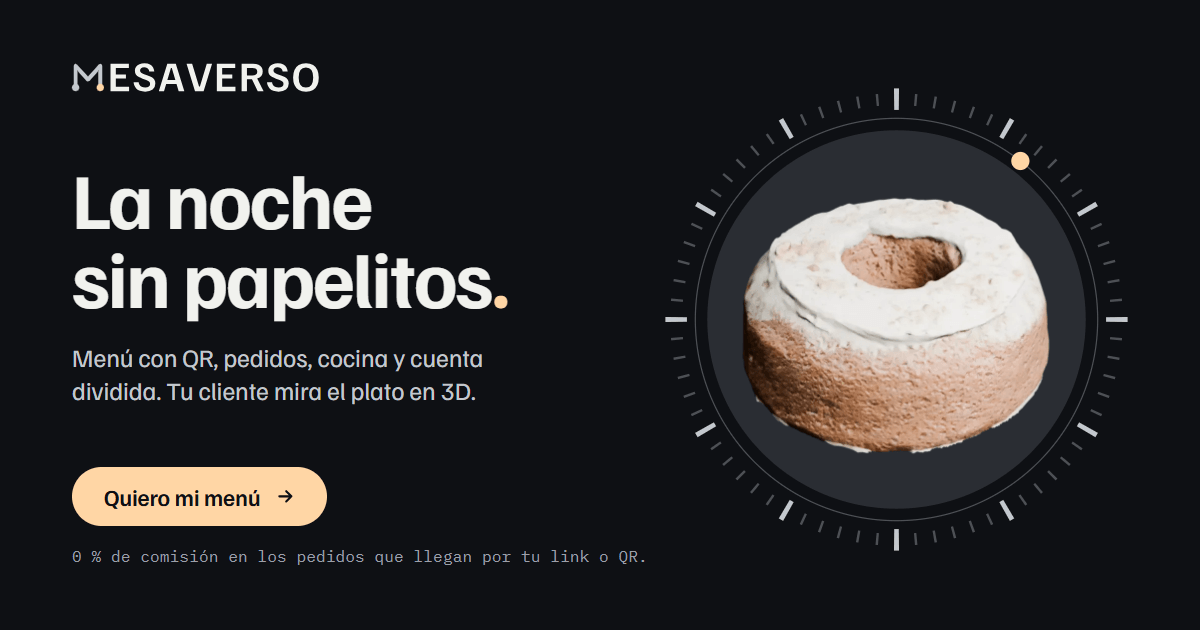
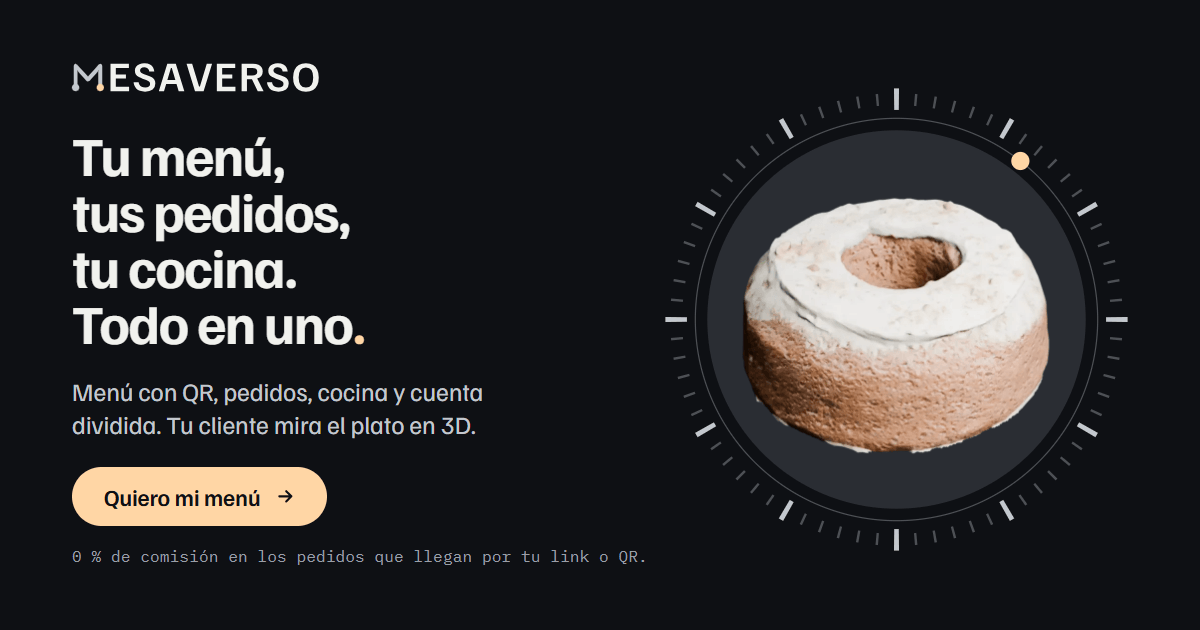
Landing v2: new headline, five SEO product pages built from JSON, footer links, SEO tests, new OG image

Changed region(s): [[0.0617, 0.2111, 0.4317, 0.6937]]

diff --git a/mesaverso-landing/src-v2/index.html b/mesaverso-landing/src-v2/index.html
@@ -39,7 +39,7 @@
 <section class="hero" id="top" aria-labelledby="h1"><div class="wrap hero__in">
   <div class="hero__copy">
     <span class="kicker rise">Menú digital con QR para restaurantes, bares y lomiterías de Paraguay</span>
-    <h1 id="h1" class="rise" style="animation-delay:60ms">La noche sin papelitos.</h1>
+    <h1 id="h1" class="rise" style="animation-delay:60ms">Tu menú, tus pedidos, tu cocina. Todo en uno.</h1>
     <p class="hero__sub rise" style="animation-delay:120ms">Tu cliente pide desde el celular. Tu mozo escanea y elige la mesa. La cocina ve el pedido. La cuenta se divide sola. Con la tablet o la compu que ya tenés.</p>
     <div class="hero__try rise" style="animation-delay:150ms">
       <label for="heroName">Probá con tu local: escribí cómo se llama</label>
@@ -327,6 +327,7 @@
   <span class="brandline">Mesaverso™</span>
   <p><b>Mesaverso™</b> · Servicio de menú digital y caja para locales gastronómicos. Hecho en Paraguay.</p>
   <p>Titular: <b>{{OWNER:TITULAR}}</b>, RUC {{OWNER:RUC}}, {{OWNER:DOMICILIO}}, Paraguay.<br>Contacto: {{OWNER:CORREO}} · WhatsApp {{WA_DISPLAY}} · Datos personales: {{OWNER:CORREO_DATOS}}</p>
+  <nav aria-label="Funciones" class="foot__nav">{{PAGES_NAV}}</nav>
   <nav aria-label="Legal"><a href="#planes">Planes</a><a href="#preguntas">Preguntas</a><a href="{{WA:general}}" target="_blank" rel="noopener">WhatsApp</a><a href="/terminos/">Términos</a><a href="/privacidad/">Privacidad</a><a href="/reclamos/">Reclamos y retiro de contenido</a></nav>
   <p><b>Mesaverso Caja no emite factura.</b> El ticket de la caja dice «NO VÁLIDO COMO FACTURA»: seguís facturando con tu sistema habitual.</p>
   <p>© {{YEAR}} {{OWNER:TITULAR}}. Mesaverso™ es una marca en uso, aún sin registro. No usamos cookies de seguimiento en esta página.</p>

diff --git a/mesaverso-landing/src-v2/v2-sections.css b/mesaverso-landing/src-v2/v2-sections.css
@@ -313,3 +313,7 @@
 .cir__zero{margin:0}
 @media(prefers-reduced-motion:reduce){.cir__steps::after{transition:none}}
 @media(max-width:899px){.cir__dev{order:-1;min-height:0}.cir__dev .screen{height:450px}.tab__screen{min-height:320px}}
+.legal .lead{font-size:20px;color:var(--text)}.legal .btn--primary{color:var(--cta-text)}.legal .btn--secondary{color:var(--btn2-text)}
+.faq--page{display:grid;gap:8px}.faq--page details{border:1px solid var(--line);border-radius:var(--r-card);padding:12px 16px}.faq--page summary{cursor:pointer;font-weight:600;color:var(--text);min-height:32px}.faq--page details div{color:var(--text-2);margin-top:8px}
+.page__cta{display:flex;flex-wrap:wrap;gap:10px;margin-top:28px}
+.foot__nav{display:flex;flex-wrap:wrap;gap:6px 18px;margin:8px 0}.foot__nav a{color:var(--text-2)}
